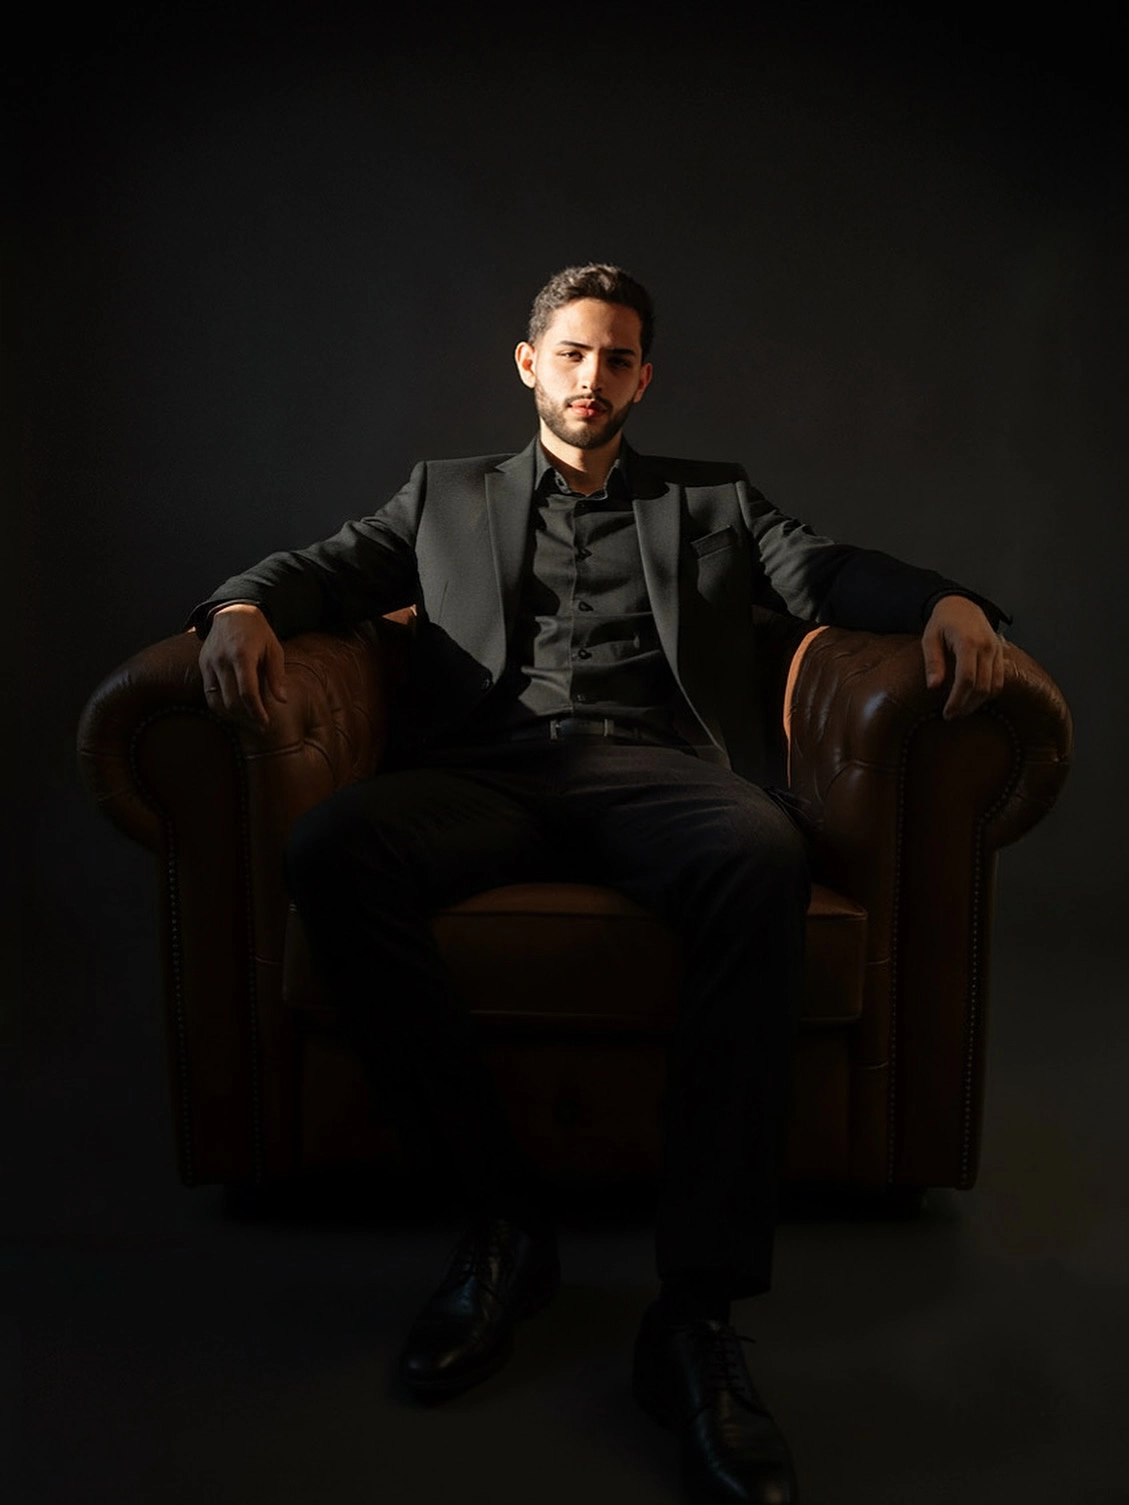
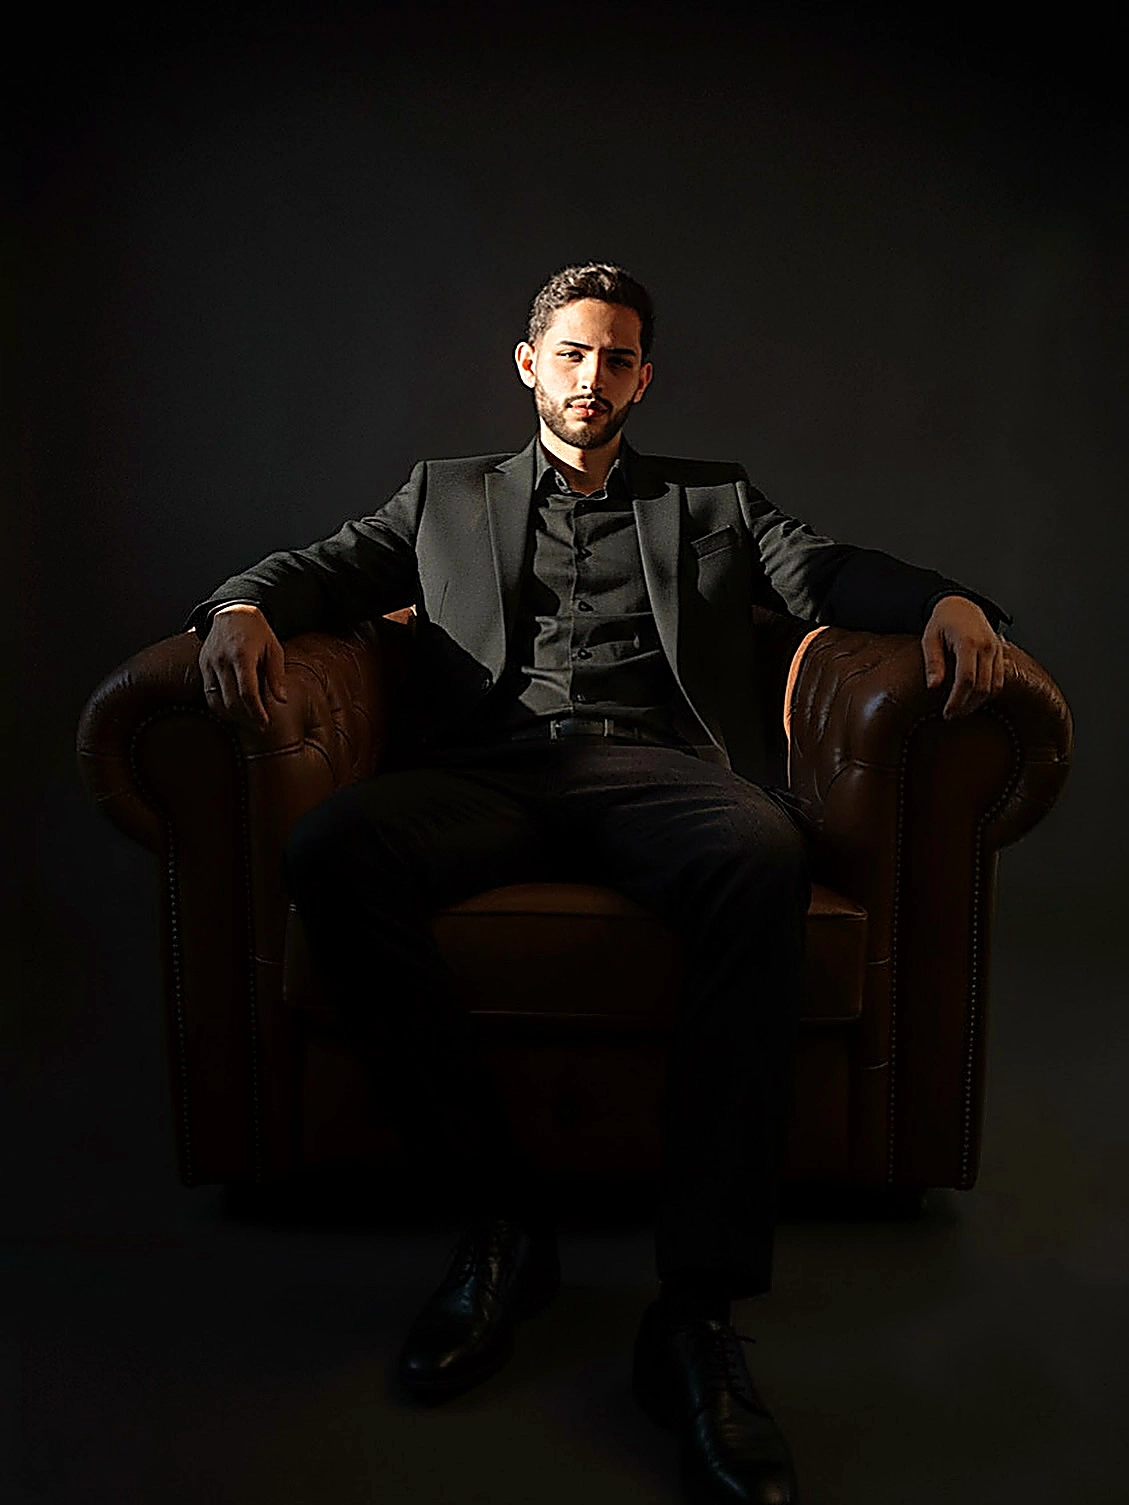
Enhance hero photo image resolution, sharpness, and clarity using PIL UnsharpMask filter and high definition WebP encoding

diff --git a/src/components/ui/parallax-scrolling.jsx b/src/components/ui/parallax-scrolling.jsx
@@ -64,13 +64,13 @@ export function ParallaxComponent({ onOpenICP }) {
       {/* ========================================================= */}
       <div data-hero-pinned-wrapper className="relative w-full h-screen overflow-hidden bg-[#080c19]">
         
-        {/* FOTO DO HERO (ENQUADRAMENTO IDÊNTICO AO MOBILE EM TODAS AS TELAS) */}
+        {/* FOTO DO HERO (QUALIDADE HD APERFEIÇOADA COM UN-SHARP MASK E HIGH DEFINITION FILTERS) */}
         <div className="absolute inset-0 w-full h-full z-0 overflow-hidden">
           <img 
             data-parallax-photo
             src={heroPhoto} 
             alt="Fundador Converte+ na Poltrona" 
-            className="w-full h-full object-cover [object-position:center_22%] filter contrast-[1.14] brightness-[0.96] saturate-[1.08] [image-rendering:-webkit-optimize-contrast] origin-center"
+            className="w-full h-full object-cover [object-position:center_22%] filter contrast-[1.10] brightness-[0.97] saturate-[1.06] [image-rendering:-webkit-optimize-contrast] origin-center"
           />
           
           {/* Sombreamento para transição suave */}
